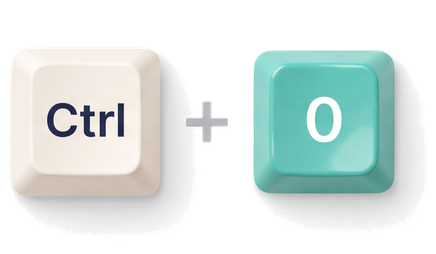
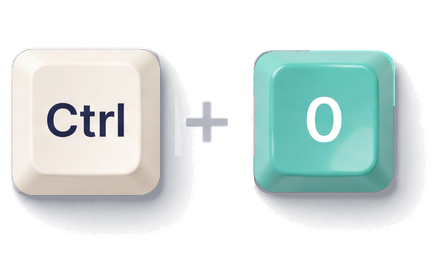
style(search-dojo): 찰랑이는 2중 물결 충전 연출·키캡 흰테두리 제거 및 외곽 샘플 귀신검색창 디자인 복원

diff --git a/src/components/ghostDojo/GhostSuperpowerDojo.tsx b/src/components/ghostDojo/GhostSuperpowerDojo.tsx
@@ -267,6 +267,65 @@ interface SamplePopupState {
 
 const TARGET_REPS = 3;
 
+const LiquidWaveFill: React.FC<{ count: number; target: number }> = ({ count, target }) => {
+  const clamped = Math.min(target, count);
+  const done = count >= target;
+  const bodyPct =
+    clamped === 0 ? 0 : done ? 105 : Math.round((clamped / target) * 100);
+
+  if (clamped === 0) return null;
+
+  const frontFill = done ? 'rgba(110, 231, 183, 0.62)' : 'rgba(153, 246, 228, 0.72)';
+  const backFill = done ? 'rgba(52, 211, 153, 0.35)' : 'rgba(45, 212, 191, 0.38)';
+
+  return (
+    <div
+      style={{ height: `${bodyPct}%` }}
+      className="absolute inset-x-0 bottom-0 z-0 pointer-events-none transition-[height] duration-500 ease-out"
+    >
+      {/* 찰랑찰랑 2중 물결 상단 표면 (완료 전 1/3, 2/3 구간에서 물결 연출) */}
+      {!done && (
+        <div className="absolute inset-x-0 -top-[20px] h-[22px] overflow-hidden">
+          {/* 뒤쪽 잔물결 */}
+          <svg
+            viewBox="0 0 1200 28"
+            preserveAspectRatio="none"
+            style={{ animation: 'ghostWaveReverse 4.2s linear infinite' }}
+            className="absolute left-0 top-0 w-[200%] h-full"
+          >
+            <path
+              d="M 0 14 Q 150 26 300 14 T 600 14 T 900 14 T 1200 14 V 28 H 0 Z"
+              fill={backFill}
+            />
+          </svg>
+          {/* 앞쪽 주물결 (하단 액체 색상과 무봉제 일체화) */}
+          <svg
+            viewBox="0 0 1200 28"
+            preserveAspectRatio="none"
+            style={{ animation: 'ghostWaveForward 2.8s linear infinite' }}
+            className="absolute left-0 top-[2px] w-[200%] h-full"
+          >
+            <path
+              d="M 0 14 Q 150 2 300 14 T 600 14 T 900 14 T 1200 14 V 28 H 0 Z"
+              fill={frontFill}
+            />
+          </svg>
+        </div>
+      )}
+
+      {/* 물결 아래 차오른 액체 본체 */}
+      <div
+        style={{
+          background: done
+            ? 'linear-gradient(to top, rgba(52, 211, 153, 0.52), rgba(110, 231, 183, 0.62))'
+            : 'linear-gradient(to top, rgba(94, 234, 212, 0.78), rgba(153, 246, 228, 0.72))',
+        }}
+        className="w-full h-full transition-colors duration-500"
+      />
+    </div>
+  );
+};
+
 const Basic1: React.FC<{ onDone: () => void }> = ({ onDone }) => {
   const initialCounts = loadDojoProgress().b1Counts ?? { keyboard: 0, mouse: 0 };
   const [keyboardCount, setKeyboardCount] = useState(initialCounts.keyboard);
@@ -276,6 +335,7 @@ const Basic1: React.FC<{ onDone: () => void }> = ({ onDone }) => {
 
   const [pressingSide, setPressingSide] = useState<'keyboard' | 'mouse' | null>(null);
   const [samplePopup, setSamplePopup] = useState<SamplePopupState | null>(null);
+  const podsWrapRef = useRef<HTMLDivElement | null>(null);
   const popupCardRef = useRef<HTMLDivElement | null>(null);
   const pressTimerRef = useRef<number | null>(null);
 
@@ -346,37 +406,61 @@ const Basic1: React.FC<{ onDone: () => void }> = ({ onDone }) => {
     };
   }, [samplePopup]);
 
+  // 충전 박스를 절대 가리지 않도록 항상 박스 바깥쪽(하단 외곽)에 배치
   const computePopupStyle = (): React.CSSProperties => {
-    if (
-      samplePopup?.method === 'mouse' &&
-      typeof samplePopup.x === 'number' &&
-      typeof samplePopup.y === 'number' &&
-      typeof window !== 'undefined'
-    ) {
-      const cardW = Math.min(430, window.innerWidth - 32);
-      const cardH = 210;
-      const clampedLeft = Math.max(16, Math.min(samplePopup.x - Math.round(cardW * 0.35), window.innerWidth - cardW - 16));
-      const clampedTop = Math.max(16, Math.min(samplePopup.y + 14, window.innerHeight - cardH - 16));
+    if (typeof window === 'undefined') {
+      return { position: 'fixed', left: '50%', top: '62%', transform: 'translateX(-50%)', width: '460px' };
+    }
+    const cardW = Math.min(460, window.innerWidth - 32);
+    const cardH = 235;
+    const boxRect = podsWrapRef.current?.getBoundingClientRect();
+
+    if (boxRect) {
+      // 기본: 두 충전 박스 바로 아래 바깥쪽(박스 가림 0%)
+      const desiredLeft =
+        samplePopup?.method === 'mouse'
+          ? boxRect.right - cardW
+          : boxRect.left;
+      const clampedLeft = Math.max(16, Math.min(desiredLeft, window.innerWidth - cardW - 16));
+
+      const belowTop = boxRect.bottom + 22;
+      if (belowTop + cardH <= window.innerHeight - 12) {
+        return {
+          position: 'fixed',
+          left: `${clampedLeft}px`,
+          top: `${belowTop}px`,
+          width: `${cardW}px`,
+        };
+      }
+      // 만약 화면 아래 여백이 좁으면 박스 위쪽 바깥(상단 외곽) 또는 우측 외곽에 배치해 박스 가림 방지
+      const aboveTop = boxRect.top - cardH - 18;
+      if (aboveTop >= 12) {
+        return {
+          position: 'fixed',
+          left: `${clampedLeft}px`,
+          top: `${aboveTop}px`,
+          width: `${cardW}px`,
+        };
+      }
       return {
         position: 'fixed',
         left: `${clampedLeft}px`,
-        top: `${clampedTop}px`,
+        top: `${Math.max(16, window.innerHeight - cardH - 16)}px`,
         width: `${cardW}px`,
       };
     }
+
     return {
       position: 'fixed',
       left: '50%',
-      top: '38%',
-      transform: 'translate(-50%, -50%)',
-      width: 'min(430px, calc(100vw - 32px))',
+      top: '65%',
+      transform: 'translateX(-50%)',
+      width: `${cardW}px`,
     };
   };
 
   const kbClamped = Math.min(TARGET_REPS, keyboardCount);
   const msClamped = Math.min(TARGET_REPS, mouseCount);
-  const kbFillPct = (kbClamped / TARGET_REPS) * 100;
-  const msFillPct = (msClamped / TARGET_REPS) * 100;
   const kbDone = keyboardCount >= TARGET_REPS;
   const msDone = mouseCount >= TARGET_REPS;
 
@@ -384,7 +468,7 @@ const Basic1: React.FC<{ onDone: () => void }> = ({ onDone }) => {
     <div className="py-1">
       <style>{`
         @keyframes ghostSampleSummonPop {
-          0% { opacity: 0; scale: 0.9; }
+          0% { opacity: 0; scale: 0.92; }
           65% { opacity: 1; scale: 1.02; }
           100% { opacity: 1; scale: 1; }
         }
@@ -396,11 +480,22 @@ const Basic1: React.FC<{ onDone: () => void }> = ({ onDone }) => {
           from { width: 100%; }
           to { width: 0%; }
         }
+        @keyframes ghostWaveForward {
+          0% { transform: translateX(0); }
+          100% { transform: translateX(-50%); }
+        }
+        @keyframes ghostWaveReverse {
+          0% { transform: translateX(-50%); }
+          100% { transform: translateX(0); }
+        }
       `}</style>
 
-      {/* 여백 조절로 보기 좋게 좁힌 중앙 2열 배터리 충전 카드 */}
-      <div className="w-full max-w-[680px] mx-auto grid grid-cols-1 sm:grid-cols-2 gap-4 sm:gap-5 items-stretch">
-        {/* 좌측: 키보드 Ctrl + 0 (아래→위 3단 충전) */}
+      {/* 여백 조절로 보기 좋게 좁힌 중앙 2열 찰랑 물결 충전 카드 */}
+      <div
+        ref={podsWrapRef}
+        className="w-full max-w-[680px] mx-auto grid grid-cols-1 sm:grid-cols-2 gap-4 sm:gap-5 items-stretch"
+      >
+        {/* 좌측: 키보드 Ctrl + 0 (아래→위 찰랑 물결 충전) */}
         <div
           onMouseDown={handlers.onMouseDown}
           onContextMenu={handlers.onContextMenu}
@@ -414,17 +509,7 @@ const Basic1: React.FC<{ onDone: () => void }> = ({ onDone }) => {
                   : 'border-dashed border-slate-300 bg-slate-50/85'
           }`}
         >
-          {/* 아래에서 위로 차오르는 충전 배경 레이어 */}
-          <div
-            style={{ height: `${kbFillPct}%` }}
-            className={`absolute inset-x-0 bottom-0 z-0 pointer-events-none transition-all duration-500 ease-out ${
-              kbDone
-                ? 'bg-gradient-to-t from-emerald-300/75 via-teal-200/60 to-emerald-100/65'
-                : keyboardCount > 0
-                  ? 'bg-gradient-to-t from-teal-300/80 via-teal-200/65 to-teal-100/60 border-t-2 border-teal-500/75'
-                  : ''
-            }`}
-          />
+          <LiquidWaveFill count={keyboardCount} target={TARGET_REPS} />
 
           <div className="relative z-10 w-full flex items-center justify-between gap-2">
             <span className="text-[12.5px] font-extrabold text-slate-800 tracking-tight">
@@ -454,7 +539,7 @@ const Basic1: React.FC<{ onDone: () => void }> = ({ onDone }) => {
           </div>
         </div>
 
-        {/* 우측: 마우스 Ctrl + 우클릭 (아래→위 3단 충전) */}
+        {/* 우측: 마우스 Ctrl + 우클릭 (아래→위 찰랑 물결 충전) */}
         <div
           onMouseDown={handlers.onMouseDown}
           onContextMenu={handlers.onContextMenu}
@@ -468,17 +553,7 @@ const Basic1: React.FC<{ onDone: () => void }> = ({ onDone }) => {
                   : 'border-dashed border-slate-300 bg-slate-50/85'
           }`}
         >
-          {/* 아래에서 위로 차오르는 충전 배경 레이어 */}
-          <div
-            style={{ height: `${msFillPct}%` }}
-            className={`absolute inset-x-0 bottom-0 z-0 pointer-events-none transition-all duration-500 ease-out ${
-              msDone
-                ? 'bg-gradient-to-t from-emerald-300/75 via-teal-200/60 to-emerald-100/65'
-                : mouseCount > 0
-                  ? 'bg-gradient-to-t from-teal-300/80 via-teal-200/65 to-teal-100/60 border-t-2 border-teal-500/75'
-                  : ''
-            }`}
-          />
+          <LiquidWaveFill count={mouseCount} target={TARGET_REPS} />
 
           <div className="relative z-10 w-full flex items-center justify-between gap-2">
             <span className="text-[12.5px] font-extrabold text-slate-800 tracking-tight">
@@ -509,7 +584,7 @@ const Basic1: React.FC<{ onDone: () => void }> = ({ onDone }) => {
         </div>
       </div>
 
-      {/* 2초 후 자동 퇴장하는 깔끔한 호출 연습용 샘플 귀신검색창 */}
+      {/* 충전 박스 바깥쪽에 뜨고 2초 후 자동 퇴장하는 리얼 샘플 귀신검색창 */}
       {samplePopup &&
         typeof document !== 'undefined' &&
         createPortal(
@@ -519,7 +594,7 @@ const Basic1: React.FC<{ onDone: () => void }> = ({ onDone }) => {
               ref={popupCardRef}
               style={{
                 ...computePopupStyle(),
-                animation: 'ghostSampleSummonPop 160ms cubic-bezier(0.16, 1, 0.3, 1) forwards',
+                animation: 'ghostSampleSummonPop 170ms cubic-bezier(0.16, 1, 0.3, 1) forwards',
               }}
               onContextMenu={(e) => {
                 if (e.ctrlKey) e.preventDefault();
@@ -527,7 +602,7 @@ const Basic1: React.FC<{ onDone: () => void }> = ({ onDone }) => {
               className="pointer-events-auto rounded-2xl overflow-hidden bg-white border-2 border-slate-800 shadow-[0_24px_60px_-12px_rgba(15,23,42,0.45)] ring-4 ring-teal-500/25 select-none"
             >
               {/* 상단 타이틀 바 */}
-              <div className="px-3.5 py-2.5 bg-slate-900 text-white flex items-center justify-between gap-2">
+              <div className="px-4 py-2.5 bg-slate-900 text-white flex items-center justify-between gap-2">
                 <div className="flex items-center gap-2 min-w-0">
                   <img
                     src="/gwisinkachi_app_icon_512.png"
@@ -538,19 +613,19 @@ const Basic1: React.FC<{ onDone: () => void }> = ({ onDone }) => {
                     귀신검색창
                   </span>
                   <span className="px-2 py-0.5 rounded bg-amber-400 text-slate-950 text-[10.5px] font-extrabold whitespace-nowrap">
-                    샘플
+                    호출 연습용 샘플
                   </span>
                 </div>
                 <div className="flex items-center gap-2 shrink-0">
-                  <span className="text-teal-300 text-[11.5px] font-bold whitespace-nowrap">
+                  <span className="px-2 py-0.5 rounded-full bg-teal-500/25 border border-teal-400/50 text-teal-200 text-[11px] font-bold whitespace-nowrap">
                     {samplePopup.method === 'keyboard'
-                      ? `Ctrl + 0 (${Math.min(TARGET_REPS, keyboardCount)}/${TARGET_REPS})`
-                      : `Ctrl + 우클릭 (${Math.min(TARGET_REPS, mouseCount)}/${TARGET_REPS})`}
+                      ? '키보드 Ctrl + 0 소환!'
+                      : '마우스 Ctrl + 우클릭 소환!'}
                   </span>
                   <button
                     type="button"
                     onClick={() => setSamplePopup(null)}
-                    aria-label="닫기"
+                    aria-label="샘플 창 닫기"
                     className="w-6 h-6 rounded-md bg-white/15 hover:bg-white/25 text-white text-[12px] flex items-center justify-center cursor-pointer transition-colors"
                   >
                     ✕
@@ -558,7 +633,7 @@ const Basic1: React.FC<{ onDone: () => void }> = ({ onDone }) => {
                 </div>
               </div>
 
-              {/* 2초 자동 소멸 진행 바 */}
+              {/* 2초 자동 소멸 타이머 바 */}
               <div className="w-full h-1 bg-slate-800 overflow-hidden">
                 <div
                   style={{ animation: 'ghostPopupTimerShrink 2000ms linear forwards' }}
@@ -566,19 +641,44 @@ const Basic1: React.FC<{ onDone: () => void }> = ({ onDone }) => {
                 />
               </div>
 
-              {/* 심플한 검색창 모형 */}
-              <div className="p-3.5 bg-white flex flex-col gap-2">
-                <div className="h-10.5 px-3 rounded-xl bg-slate-50 border-2 border-teal-500 flex items-center gap-2">
-                  <span className="material-symbols-outlined text-[18px] text-teal-600">
+              {/* 이전 버전의 완성도 높은 검색창 + 샘플 결과 2줄 모형 복원 */}
+              <div className="p-3.5 bg-white flex flex-col gap-2.5">
+                <div className="h-11 px-3.5 rounded-xl bg-slate-50 border-2 border-teal-500 flex items-center gap-2.5 shadow-inner">
+                  <span className="material-symbols-outlined text-[19px] text-teal-600">
                     search
                   </span>
                   <span
                     style={{ animation: 'ghostCaretBlink 1s infinite' }}
-                    className="w-0.5 h-4.5 bg-teal-600 rounded-full shrink-0"
+                    className="w-0.5 h-5 bg-teal-600 rounded-full shrink-0"
                   />
-                  <span className="text-[12.5px] text-slate-400 truncate">
-                    문서 · 사진 속 글자 · 동영상 장면 즉시 검색...
+                  <span className="text-[13px] text-slate-400 truncate">
+                    실제 연결 시 여기서 문서·사진·영상을 바로 검색합니다...
                   </span>
+                </div>
+
+                <div className="flex flex-col gap-1.5 opacity-90">
+                  <div className="px-3 py-2 rounded-lg bg-slate-50 border border-slate-200/90 flex items-center justify-between gap-2 text-[12px]">
+                    <div className="flex items-center gap-2 min-w-0">
+                      <span className="px-1.5 py-0.5 rounded bg-slate-200 text-slate-700 text-[10px] font-bold shrink-0">
+                        PDF
+                      </span>
+                      <span className="font-semibold text-slate-700 truncate">
+                        2026_표준_임대차계약서.pdf
+                      </span>
+                    </div>
+                    <span className="text-[11px] text-slate-400 shrink-0">샘플 모양</span>
+                  </div>
+                  <div className="px-3 py-2 rounded-lg bg-slate-50 border border-slate-200/90 flex items-center justify-between gap-2 text-[12px]">
+                    <div className="flex items-center gap-2 min-w-0">
+                      <span className="px-1.5 py-0.5 rounded bg-teal-100 text-teal-800 text-[10px] font-bold shrink-0">
+                        사진
+                      </span>
+                      <span className="font-semibold text-slate-700 truncate">
+                        배달주문_영수증_38500원.jpg
+                      </span>
+                    </div>
+                    <span className="text-[11px] text-slate-400 shrink-0">샘플 모양</span>
+                  </div>
                 </div>
               </div>
             </div>
